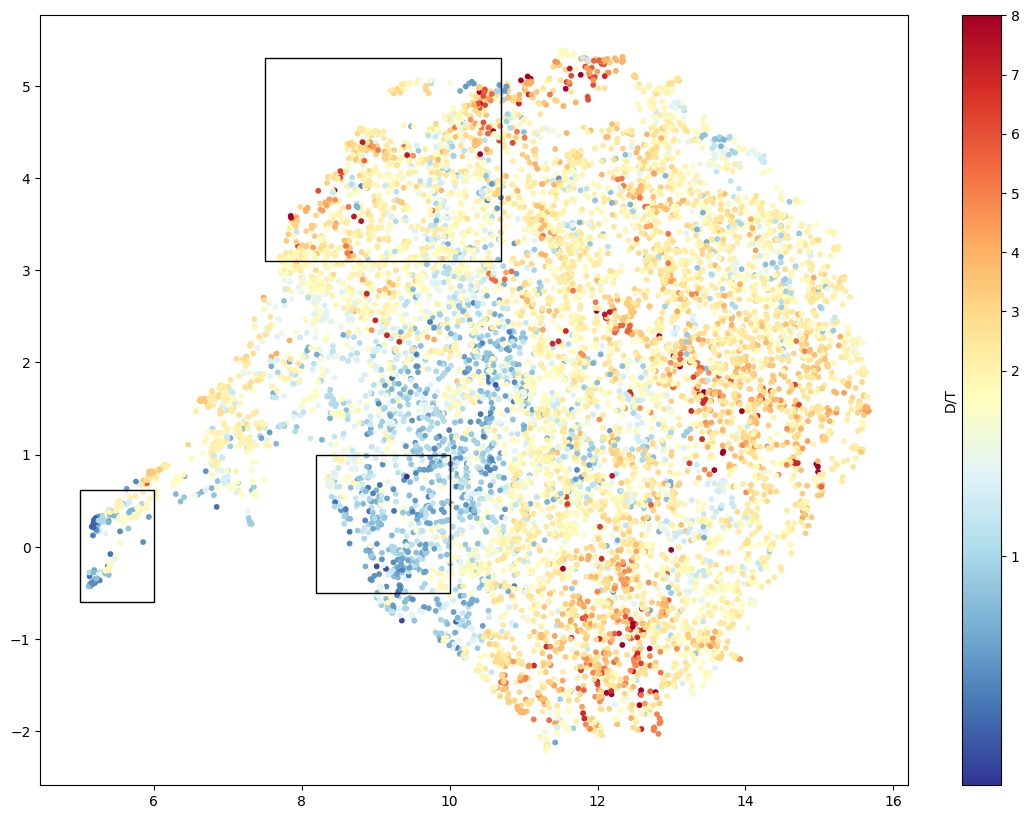
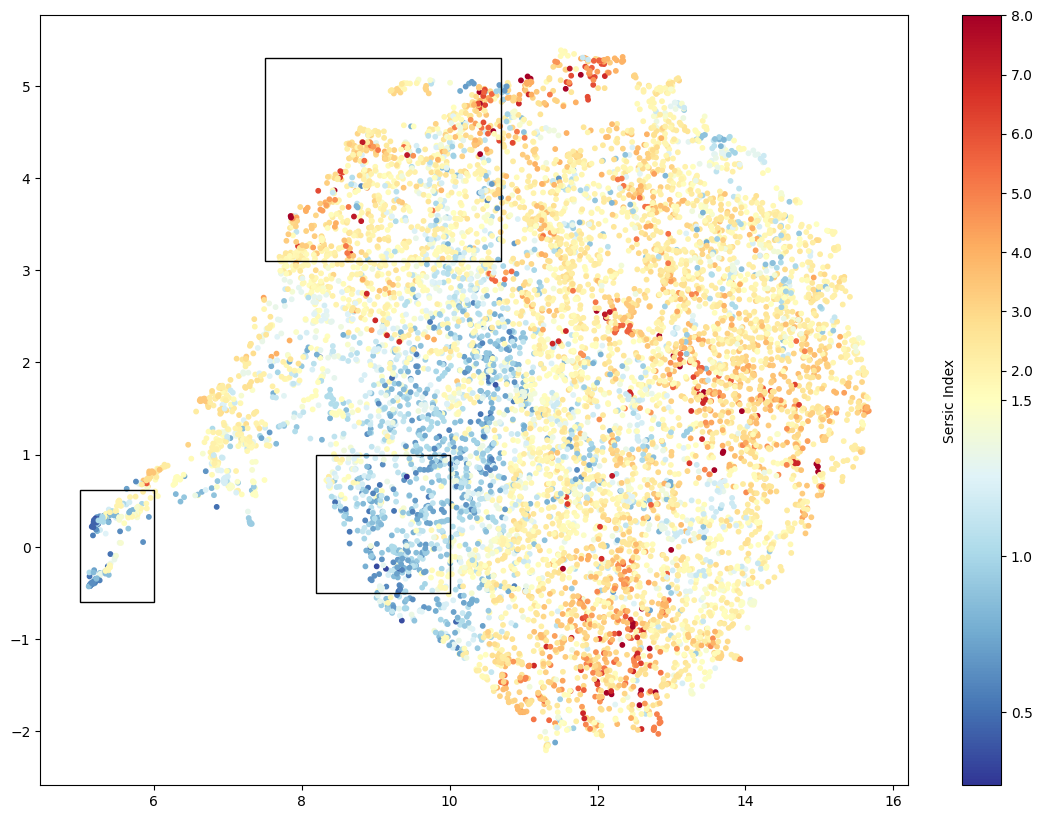
Code

diff --git a/2d_visualisation.py b/2d_visualisation.py
@@ -90,75 +90,81 @@ umap = np.load("Variational Eagle/2D Visualisation/umap_spectral.npy")
 
 
 
-# fig, axs = plt.subplots(1, 1, figsize=(14, 10))
+fig, axs = plt.subplots(1, 1, figsize=(14, 10))
+
+norm = TwoSlopeNorm(vmin=all_properties["n_r"].min(), vcenter=1.5, vmax=all_properties["n_r"].max())
+# norm = TwoSlopeNorm(vmin=all_properties["DiscToTotal"].min(), vcenter=0.1, vmax=all_properties["DiscToTotal"].max())
+# norm = TwoSlopeNorm(vmin=all_properties["MassType_Star"].min(), vmax=0.25e12)
+
+# scatter = axs.scatter(x=umap.T[0], y=umap.T[1], s=10)
+scatter = axs.scatter(x=umap.T[0], y=umap.T[1], c=all_properties["n_r"], cmap="RdYlBu_r", norm=norm, s=10)
+# scatter = axs.scatter(x=umap.T[0], y=umap.T[1], c=all_properties["DiscToTotal"], cmap="RdYlBu", norm=norm, s=10)
+# scatter = axs.scatter(x=umap.T[0], y=umap.T[1], c=all_properties["MassType_Star"], cmap="RdYlBu_r", vmin=all_properties["MassType_Star"].min(), vmax=0.5e11, s=10)
+# scatter = axs.scatter(x=umap.T[0], y=umap.T[1], c=all_properties["re_r"], cmap="RdYlBu_r", vmin=all_properties["re_r"].min(), vmax=15, s=10)
+# scatter = axs.scatter(x=umap.T[0], y=umap.T[1], c=all_properties["rhalf_ellip"], cmap="RdYlBu_r", vmin=all_properties["rhalf_ellip"].min(), vmax=50, s=10)
+# scatter = axs.scatter(x=umap.T[0], y=umap.T[1], c=all_properties["g-i"], cmap="RdYlBu_r", vmin=all_properties["g-i"].min(), vmax=all_properties["g-i"].max(), s=10)
+
+cbar = plt.colorbar(scatter, ax=axs, label="Sersic Index")
+cbar.ax.yaxis.set_label_position('left')
+cbar.set_ticks([0.5, 1, 1.5, 2, 3, 4, 5, 6, 7, 8])
+
+
+# scatter = axs.scatter(x=umap, y=all_properties["n_r"], s=10)
+# axs.set_ylabel("Sersic Index")
+# axs.set_xlabel("1D UMAP")
+
+
+rect_1 = patches.Rectangle((7.5, 3.1), 3.2, 2.2, linewidth=1, edgecolor='black', facecolor='none')
+rect_2 = patches.Rectangle((5, -0.6), 1, 1.22, linewidth=1, edgecolor='black', facecolor='none')
+rect_3 = patches.Rectangle((8.2, -0.5), 1.8, 1.5, linewidth=1, edgecolor='black', facecolor='none')
+
+axs.add_patch(rect_1)
+axs.add_patch(rect_2)
+axs.add_patch(rect_3)
+
+
+plt.savefig("Variational Eagle/2D Visualisation/umap_sersic_" + str(encoding_dim) + "_" + str(run) + "_box", bbox_inches="tight")
+# plt.savefig("Variational Eagle/2D Visualisation/pca", bbox_inches="tight")
+plt.show()
+
+
+
+
+
+
+
+
+# random.seed(0)
 #
-# norm = TwoSlopeNorm(vmin=all_properties["n_r"].min(), vcenter=1.5, vmax=all_properties["n_r"].max())
-# # norm = TwoSlopeNorm(vmin=all_properties["DiscToTotal"].min(), vcenter=0.1, vmax=all_properties["DiscToTotal"].max())
-# # norm = TwoSlopeNorm(vmin=all_properties["MassType_Star"].min(), vmax=0.25e12)
+# print(umap.shape)
 #
-# # scatter = axs.scatter(x=umap.T[0], y=umap.T[1], s=10)
-# scatter = axs.scatter(x=umap.T[0], y=umap.T[1], c=all_properties["n_r"], cmap="RdYlBu_r", norm=norm, s=10)
-# # scatter = axs.scatter(x=umap.T[0], y=umap.T[1], c=all_properties["DiscToTotal"], cmap="RdYlBu", norm=norm, s=10)
-# # scatter = axs.scatter(x=umap.T[0], y=umap.T[1], c=all_properties["MassType_Star"], cmap="RdYlBu_r", vmin=all_properties["MassType_Star"].min(), vmax=0.5e11, s=10)
-# # scatter = axs.scatter(x=umap.T[0], y=umap.T[1], c=all_properties["re_r"], cmap="RdYlBu_r", vmin=all_properties["re_r"].min(), vmax=15, s=10)
-# # scatter = axs.scatter(x=umap.T[0], y=umap.T[1], c=all_properties["rhalf_ellip"], cmap="RdYlBu_r", vmin=all_properties["rhalf_ellip"].min(), vmax=50, s=10)
-# # scatter = axs.scatter(x=umap.T[0], y=umap.T[1], c=all_properties["g-i"], cmap="RdYlBu_r", vmin=all_properties["g-i"].min(), vmax=all_properties["g-i"].max(), s=10)
+# galaxies = []
 #
-# cbar = plt.colorbar(scatter, ax=axs, label="D/T")
-# cbar.ax.yaxis.set_label_position('left')
-# # cbar.set_ticks([0.5, 1, 1.5, 2, 3, 4, 5, 6, 7, 8])
+# for i, (u1, u2) in enumerate(umap):
+#     if (7.5 < u1 < 10.7) & (3.1 < u2 < 5.3):
+#         galaxy = int(all_properties.iloc[i]["GalaxyID"])
+#         galaxies.append(galaxy)
+#
+# print(random.sample(galaxies, 25))
 #
 #
-# # scatter = axs.scatter(x=umap, y=all_properties["n_r"], s=10)
-# # axs.set_ylabel("Sersic Index")
-# # axs.set_xlabel("1D UMAP")
+#
+# galaxies = []
+#
+# for i, (u1, u2) in enumerate(umap):
+#     if (5 < u1 < 6) & (-0.6 < u2 < 0.62):
+#         galaxy = int(all_properties.iloc[i]["GalaxyID"])
+#         galaxies.append(galaxy)
+#
+# print(random.sample(galaxies, 25))
 #
 #
-# rect_1 = patches.Rectangle((7.5, 3.1), 3.2, 2.2, linewidth=1, edgecolor='black', facecolor='none')
-# rect_2 = patches.Rectangle((5, -0.6), 1, 1.22, linewidth=1, edgecolor='black', facecolor='none')
-# rect_3 = patches.Rectangle((8.2, -0.5), 1.8, 1.5, linewidth=1, edgecolor='black', facecolor='none')
 #
-# axs.add_patch(rect_1)
-# axs.add_patch(rect_2)
-# axs.add_patch(rect_3)
+# galaxies = []
 #
+# for i, (u1, u2) in enumerate(umap):
+#     if (8.2 < u1 < 10) & (-0.5 < u2 < 1):
+#         galaxy = int(all_properties.iloc[i]["GalaxyID"])
+#         galaxies.append(galaxy)
 #
-# plt.savefig("Variational Eagle/2D Visualisation/umap_sersic_" + str(encoding_dim) + "_" + str(run) + "_box", bbox_inches="tight")
-# # plt.savefig("Variational Eagle/2D Visualisation/pca", bbox_inches="tight")
-# plt.show()
-
-
-random.seed(0)
-
-print(umap.shape)
-
-galaxies = []
-
-for i, (u1, u2) in enumerate(umap):
-    if (7.5 < u1 < 10.7) & (3.1 < u2 < 5.3):
-        galaxy = int(all_properties.iloc[i]["GalaxyID"])
-        galaxies.append(galaxy)
-
-print(random.sample(galaxies, 25))
-
-
-
-galaxies = []
-
-for i, (u1, u2) in enumerate(umap):
-    if (5 < u1 < 6) & (-0.6 < u2 < 0.62):
-        galaxy = int(all_properties.iloc[i]["GalaxyID"])
-        galaxies.append(galaxy)
-
-print(random.sample(galaxies, 25))
-
-
-
-galaxies = []
-
-for i, (u1, u2) in enumerate(umap):
-    if (8.2 < u1 < 10) & (-0.5 < u2 < 1):
-        galaxy = int(all_properties.iloc[i]["GalaxyID"])
-        galaxies.append(galaxy)
-
-print(random.sample(galaxies, 25))
+# print(random.sample(galaxies, 25))

diff --git a/comparison-extracted_features.py b/comparison-extracted_features.py
@@ -58,9 +58,9 @@ def density_scatter(x ,y, axs, **kwargs):
 # all_properties = pd.read_csv("Galaxy Properties/Eagle Properties/all_properties_real.csv")
 # all_properties = pd.read_csv("Galaxy Properties/Eagle Properties/all_properties_balanced.csv")
 
-all_properties = pd.read_csv("Galaxy Properties/Eagle Properties/all_properties_spirals.csv")
+# all_properties = pd.read_csv("Galaxy Properties/Eagle Properties/all_properties_spirals.csv")
 # all_properties = pd.read_csv("Galaxy Properties/Eagle Properties/all_properties_ellipticals.csv")
-# all_properties = pd.read_csv("Galaxy Properties/Eagle Properties/all_properties_transitional.csv")
+all_properties = pd.read_csv("Galaxy Properties/Eagle Properties/all_properties_transitional.csv")
 
 
 print(all_properties.shape)
